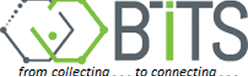
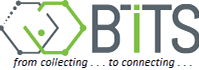
added footer and changed picture
I have integrated a footer into the HTML and styled it using CSS, including the addition of an image. Additionally, I have adjusted the transparency of the Bits College image and applied the same effect to the header. To ensure a seamless layout, I have set the page corners to be fully attached by utilizing margin: 0. These modifications can be found at the top of the CSS file for partners.html.

diff --git a/footer.html b/footer.html
@@ -1,0 +1,56 @@
+<!DOCTYPE html>
+<html lang="en">
+<head>
+    <meta charset="UTF-8">
+    <meta name="viewport" content="width=device-width, initial-scale=1.0">
+    <link rel="stylesheet" href="https://cdnjs.cloudflare.com/ajax/libs/font-awesome/6.5.0/css/all.min.css">
+    <title>footer</title>
+</head>
+<body>
+    <footer style="background-color:#004C80">
+        <div style="display: flex; flex-direction: row; align-items: center; padding: 1.2%;">
+            <img src="Vector.png" alt="bits logo" style="width: 200px; height: 70px; margin-left: 1%; margin-top: -10%;">
+            <div style="display: flex; flex-direction: column; margin-left: 1%;">
+                <h2 style="color: white; font:bold;">BITS college:School of systems and technology</h2>
+                <hr style="background-color: #4BE614; width:20%; padding-top: 5px; text-align: left; margin: 0;">
+                <div style="padding: 1%; padding-top: 3%;">
+                    <i class="fa-solid fa-location-dot" style="color: #4BE614; padding-top:1%"></i>
+                    <a href="" style="color:white">Yeka Sub-city, Woreda 05, next to Yeka Park</a>
+                </div>
+                <div style="padding: 1%; padding-top:3%;">
+                    <i class="fa-solid fa-phone" style="color: #4BE614;"></i>
+                    <a href="" style="color:white; text-decoration: none"> +251982364636</a>
+                </div>
+                <div style="padding: 1%; padding-top:3%;">
+                    <i class="fa-solid fa-message" style="color: #4BE614;"></i>
+                    <a href="" style="color: white; text-decoration: none"> info@bitscollege.edu.et</a>
+                </div>
+                <div class="social-icons" style="padding-top: 3%;" >
+                    <a href="#" aria-label="Twitter" title="Twitter" style="color: white; padding:1%;"><i class="fa-solid fa-x"></i></a>
+                    <a href="#" aria-label="Facebook" title="Facebook" style="color: white; padding:1%;"><i class="fa-brands fa-facebook"></i></a>
+                    <a href="#" aria-label="YouTube" title="YouTube" style="color: white; padding:1%;"><i class="fa-brands fa-youtube"></i></a>
+                    <a href="#" aria-label="Instagram" title="Instagram" style="color: white; padding:1%;"><i class="fa-brands fa-instagram"></i></a>
+                </div>
+                
+            </div>
+            <div style=" padding-left: 10%; padding-top: 4%;">
+                <p style="color: white;"><strong>Quick Link</strong></p>
+                <hr style="background-color: #4BE614; width:20%; padding-top: 5px; text-align: left; margin: 0;">
+                <p><a href="#" style="color: white;">Tuition</a></p>
+                <p><a href="#" style="color: white;">Undergraduate Admission</a></p>
+                <p><a href="#" style="color: white;">Graduate Admission</a></p>
+                <p><a href="#" style="color: white;">Undergraduate Accreditation</a></p>
+                <p><a href="#" style="color: white;">Graduate Accreditation</a></p>
+            </div>
+        </div>
+        <div class="copyright" style="color: white; text-align: center; padding: 1%;">
+           <p><strong>&copy; 2024 BITS College | Powered by BITS College</strong></p> 
+        </div>
+        
+
+
+    </footer>
+
+    
+</body>
+</html>

diff --git a/partners.css b/partners.css
@@ -1,3 +1,8 @@
+*{
+    margin: 0;
+    padding: 0;
+    box-sizing: border-box;
+}
 .body{
     font-family: 'Georgia', serif;
     background-image: url('partners and clients.png');
@@ -34,7 +39,7 @@ nav .logo {
   }
 
   nav .logo img {
-    height: 40px;
+    height: 70px;
   }
 
   nav .logo span {
